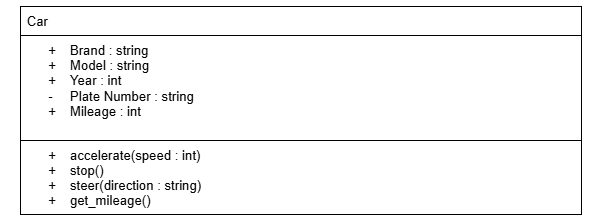
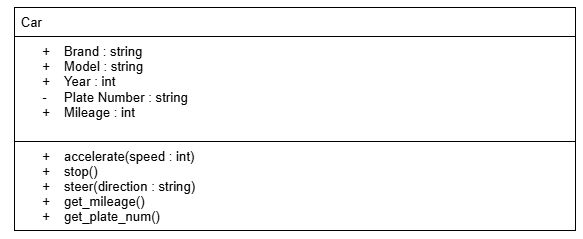
OOPAct Part 3

Changed region(s): [[0.0, 0.0, 0.988, 0.9688]]

diff --git a/q1/classRelationships.py b/q1/classRelationships.py
@@ -1,0 +1,71 @@
+class Car:
+    def __init__(self, brand, model, year, plate_num, mileage):
+        self.brand = brand
+        self.model = model
+        self.year = year
+        self.__plate_num = plate_num
+        self.mileage = mileage
+
+    def accelerate(self, speed):
+        print(f"{self.year} {self.brand} {self.model} accelerated at {speed} km/h")
+
+    def stop(self):
+        print(f"{self.year} {self.brand} {self.model} has stopped")
+
+    def steer(self, direction):
+        print(f"{self.year} {self.brand} {self.model} is steering to the {direction}")
+
+    def get_mileage(self):
+        return self.mileage
+
+    def get_plate_num(self):
+        return self.__plate_num
+
+
+class Garage:
+    def __init__(self, name, location):
+        self.name = name
+        self.location = location
+        self.cars = []
+
+    def add_car(self, car):
+        self.cars.append(car)
+
+
+# --- BEFORE RELATIONSHIP ---
+print("--- BEFORE RELATIONSHIP ---")
+
+object1 = Car("Toyota", "Vios", 2022, "ABC-6767", 67676)
+object2 = Car("Honda", "Civic", 2023, "XYZ-7777", 7777)
+object3 = Car("Ford", "Ranger", 2021, "DEF-8888", 8888)
+
+garage1 = Garage("Car Garage", "Legazpi City")
+
+print("Objects have been created.")
+print(f"Garage: {garage1.name}")
+print(f"Object 1: {object1.brand} {object1.model}")
+print(f"Object 2: {object2.brand} {object2.model}")
+print(f"Object 3: {object3.brand} {object3.model}")
+
+
+# --- BUILDING RELATIONSHIP ---
+print("\n--- BUILDING RELATIONSHIP ---")
+
+print("Adding cars to the garage.")
+
+garage1.add_car(object1)
+garage1.add_car(object2)
+garage1.add_car(object3)
+
+
+# --- AFTER RELATIONSHIP ---
+print("\n--- AFTER RELATIONSHIP ---")
+
+print(f"Garage: {garage1.name}")
+print(f"Location: {garage1.location}")
+
+print("Related objects:")
+
+for car in garage1.cars:
+    print(f"{car.brand} {car.model} {car.year} "
+          f"{car.get_plate_num()} {car.get_mileage()}")

diff --git a/q1/classRelationships.md b/q1/classRelationships.md
@@ -1,0 +1,30 @@
+# Class Relationships: Association and Multiplicity
+## Previous Work
+[Part I - Classes and Objects](classObjectUML.md)
+[Part II - Class Attributes and Methods](classAttributesMethods.md)
+## Existing Class
+Class: Car
+Description: It is a 4-wheeled vehicle used for transportation.
+## New Related Class
+Class: Garage
+Description: It is a place where cars are stored. It can show information of the cars inside it.
+## Association
+Relationship: Garage contains car
+Explanation: The Garage class is related to car because a garage contain cars. The Garage can access the information of the cars.
+## Multiplicity
+Multiplicity: 1:0..*
+Explanation: A garage can contain 0 or more cars because it can be empty or contain many cars.
+## UML Class Relationship Diagram
+![Class Relationship Diagram](images/classRelationshipDiagram.png)
+## Python Implementation
+[View Python Source](classRelationships.py)
+## Test Run
+![Relationship Test Run](images/relationshipTestRun.png)
+## Object Relationship Diagram
+![Object Relationship Diagram](images/objectRelationshipDiagram.png)
+## Analysis
+### The association between my two classes is that a Garage contains Cars. The Garage is connected to the Car because cars can be placed inside a garage. In my example, garage1 contains object1, object2, and object3.
+### I chose a 1:0..* relationship because one Garage can have zero or more Cars. A garage can be empty, or it can have many cars inside it. In my example, garage1 has three Cars.
+### I used a cars list inside the Garage class to store the Cars. I made the list using self.cars = []. Then, the add_car() method adds Car objects to the list.
+### I stored the actual Car object so the Garage can use the information from that Car. For example, garage1.add_car(object1) adds object1 to the Garage. This lets the Garage access things like the car's brand, model, and mileage.
+### A list is useful because one Garage can have many Cars. The list contains the actual Car objects, such as object1, object2, and object3. This allows me to go through the list and get information about each car.
